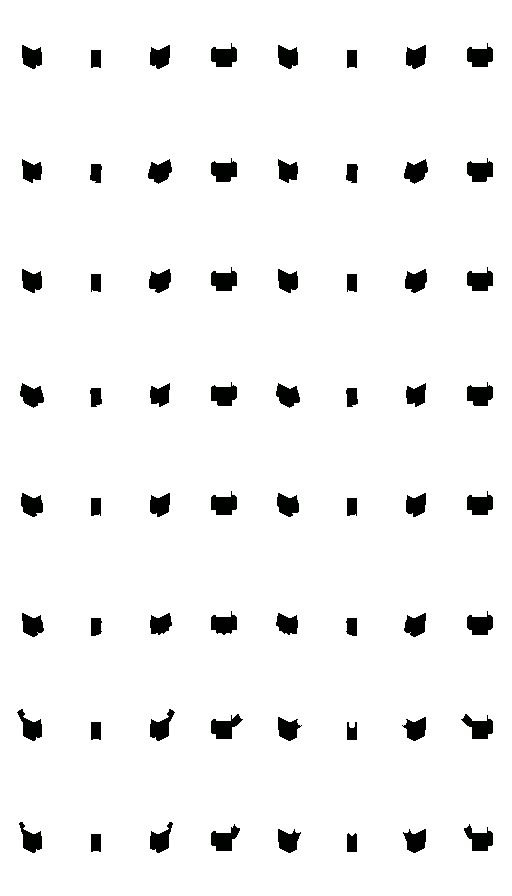
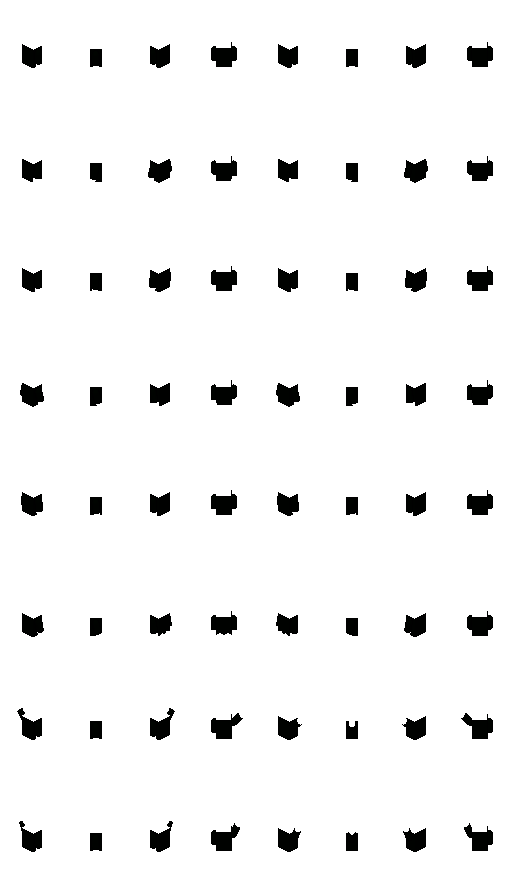
Deepen the figure's torso and legs (#127)
Torso depth 10 -> 12, thigh radius 3.9 -> 4.2, shin 3.4 -> 3.7. Dirs 1 and 5 are
where the torso turns edge-on to the camera, and the figure read thin there.

Measured on the standing silhouette, filled area per direction:

  dir      0    1    2    3    4    5    6    7
  before 1368  905 1379 1551 1379  905 1368 1539
  after  1412  981 1429 1632 1429  981 1412 1608
  delta  +3.2 +8.4 +3.6 +5.2 +3.6 +8.4 +3.2 +4.5  %

The thinnest angles gained the most and the already-broad ones barely moved,
which is the shape of result this was after: it fills out where it was weak
without going chunky head-on.

Bounding WIDTH does not move at all, in any direction. That is not the change
failing — the standing figure's widest points are the arms at x +/-9.5, so torso
depth cannot push past them, and in dimetric a depth increase projects
diagonally rather than sideways. Area is the metric that means "reads thin".

24 edits, because a garment is cut against the body as a holdout: a deeper torso
changes what gets removed from all of them. Shirt, trim shirt, blazer, overcoat,
trousers, skirt, belt, shoes and the pendant all moved outward to match. Every
edit asserted to match exactly once, which caught a thigh pattern that hit both
legs.

11 of 16 layer sheets changed. The 5 that did not are hd2, hr3, ha10, ea12 and
fa13 — all cut against the skull, which did not move. hr4 DID change: its long
back mass hangs low enough to meet the deeper torso.

All four gates pass. 389 tests green.

diff --git a/tools/artgen/rig.py b/tools/artgen/rig.py
@@ -313,20 +313,20 @@ ARM_LEN = 22
 FIGURE_PARTS = {
     "bd1": {
         "prims": [
-            {"t": "box",  "bone": "spine",  "slot": 0, "c0": (-7.5, -5.0, 0.0),
-             "c1": (7.5, 5.0, float(TORSO_LEN))},
+            {"t": "box",  "bone": "spine",  "slot": 0, "c0": (-7.5, -6.0, 0.0),
+             "c1": (7.5, 6.0, float(TORSO_LEN))},
             {"t": "limb", "bone": "arm_l",  "slot": 0, "len": float(ARM_LEN), "r": 3.2},
             {"t": "limb", "bone": "arm_r",  "slot": 0, "len": float(ARM_LEN), "r": 3.2},
-            {"t": "limb", "bone": "leg_l",  "slot": 0, "len": float(THIGH_LEN), "r": 3.9},
-            {"t": "limb", "bone": "leg_r",  "slot": 0, "len": float(THIGH_LEN), "r": 3.9},
-            {"t": "limb", "bone": "knee_l", "slot": 0, "len": float(SHIN_LEN), "r": 3.4,
+            {"t": "limb", "bone": "leg_l",  "slot": 0, "len": float(THIGH_LEN), "r": 4.2},
+            {"t": "limb", "bone": "leg_r",  "slot": 0, "len": float(THIGH_LEN), "r": 4.2},
+            {"t": "limb", "bone": "knee_l", "slot": 0, "len": float(SHIN_LEN), "r": 3.7,
              "caps": "top"},
-            {"t": "limb", "bone": "knee_r", "slot": 0, "len": float(SHIN_LEN), "r": 3.4,
+            {"t": "limb", "bone": "knee_r", "slot": 0, "len": float(SHIN_LEN), "r": 3.7,
              "caps": "top"},
-            {"t": "box",  "bone": "knee_l", "slot": 0, "c0": (-3.4, -2.6, -float(SHIN_LEN)),
-             "c1": (3.4, 6.0, -SHIN_LEN + 3.4)},
-            {"t": "box",  "bone": "knee_r", "slot": 0, "c0": (-3.4, -2.6, -float(SHIN_LEN)),
-             "c1": (3.4, 6.0, -SHIN_LEN + 3.4)},
+            {"t": "box",  "bone": "knee_l", "slot": 0, "c0": (-3.7, -2.9, -float(SHIN_LEN)),
+             "c1": (3.7, 6.3, -SHIN_LEN + 3.4)},
+            {"t": "box",  "bone": "knee_r", "slot": 0, "c0": (-3.7, -2.9, -float(SHIN_LEN)),
+             "c1": (3.7, 6.3, -SHIN_LEN + 3.4)},
         ],
     },
     # The head is its own layer, not part of bd — it is selectable, and it is what makes a figure
@@ -348,8 +348,8 @@ FIGURE_PARTS = {
     # has to be cut where the arm passes in front of it.
     "ch5": {
         "prims": [
-            {"t": "box",  "bone": "spine", "slot": 0, "c0": (-7.9, -5.4, 1.5),
-             "c1": (7.9, 5.4, 20.0)},
+            {"t": "box",  "bone": "spine", "slot": 0, "c0": (-7.9, -6.4, 1.5),
+             "c1": (7.9, 6.4, 20.0)},
             {"t": "limb", "bone": "arm_l", "slot": 0, "len": 8.0, "r": 3.7},
             {"t": "limb", "bone": "arm_r", "slot": 0, "len": 8.0, "r": 3.7},
         ],
@@ -358,10 +358,10 @@ FIGURE_PARTS = {
     # that proves N-colour parts — one mesh, two independently chosen ramps, no second render.
     "ch6": {
         "prims": [
-            {"t": "box",  "bone": "spine", "slot": 0, "c0": (-7.9, -5.4, 1.5),
-             "c1": (7.9, 5.4, 18.4)},
-            {"t": "box",  "bone": "spine", "slot": 1, "c0": (-7.6, -5.6, 18.4),
-             "c1": (7.6, 5.6, 20.6)},
+            {"t": "box",  "bone": "spine", "slot": 0, "c0": (-7.9, -6.4, 1.5),
+             "c1": (7.9, 6.4, 18.4)},
+            {"t": "box",  "bone": "spine", "slot": 1, "c0": (-7.6, -6.6, 18.4),
+             "c1": (7.6, 6.6, 20.6)},
             {"t": "limb", "bone": "arm_l", "slot": 0, "len": 13.0, "r": 3.7},
             {"t": "limb", "bone": "arm_r", "slot": 0, "len": 13.0, "r": 3.7},
             {"t": "ball", "bone": "arm_l", "slot": 1, "c": (0.0, 0.0, -13.5), "r": 3.9,
@@ -374,10 +374,10 @@ FIGURE_PARTS = {
     # player naming set 16 fails the ownership check like any other unowned set.
     "ch16": {
         "prims": [
-            {"t": "box",  "bone": "spine", "slot": 0, "c0": (-8.2, -5.7, 0.5),
-             "c1": (8.2, 5.7, 20.4)},
-            {"t": "box",  "bone": "spine", "slot": 1, "c0": (-2.2, -6.0, 2.0),
-             "c1": (2.2, 6.0, 20.4)},
+            {"t": "box",  "bone": "spine", "slot": 0, "c0": (-8.2, -6.7, 0.5),
+             "c1": (8.2, 6.7, 20.4)},
+            {"t": "box",  "bone": "spine", "slot": 1, "c0": (-2.2, -7.0, 2.0),
+             "c1": (2.2, 7.0, 20.4)},
             {"t": "limb", "bone": "arm_l", "slot": 0, "len": 20.0, "r": 3.8},
             {"t": "limb", "bone": "arm_r", "slot": 0, "len": 20.0, "r": 3.8},
             {"t": "ball", "bone": "arm_l", "slot": 1, "c": (0.0, 0.0, -20.5), "r": 4.0,
@@ -390,10 +390,10 @@ FIGURE_PARTS = {
     # is why the cone prim exists.
     "cc11": {
         "prims": [
-            {"t": "box",  "bone": "spine", "slot": 0, "c0": (-8.4, -5.9, 0.0),
-             "c1": (8.4, 5.9, 20.6)},
-            {"t": "box",  "bone": "spine", "slot": 1, "c0": (-2.0, -6.2, 1.0),
-             "c1": (2.0, 6.2, 20.6)},
+            {"t": "box",  "bone": "spine", "slot": 0, "c0": (-8.4, -6.9, 0.0),
+             "c1": (8.4, 6.9, 20.6)},
+            {"t": "box",  "bone": "spine", "slot": 1, "c0": (-2.0, -7.2, 1.0),
+             "c1": (2.0, 7.2, 20.6)},
             {"t": "cone", "bone": "hip",   "slot": 0, "len": 14.0, "r0": 8.6, "r1": 10.4},
             {"t": "limb", "bone": "arm_l", "slot": 0, "len": 20.0, "r": 4.0},
             {"t": "limb", "bone": "arm_r", "slot": 0, "len": 20.0, "r": 4.0},
@@ -401,28 +401,28 @@ FIGURE_PARTS = {
     },
     "lg7": {
         "prims": [
-            {"t": "limb", "bone": "leg_l",  "slot": 0, "len": float(THIGH_LEN), "r": 4.4},
-            {"t": "limb", "bone": "leg_r",  "slot": 0, "len": float(THIGH_LEN), "r": 4.4},
-            {"t": "limb", "bone": "knee_l", "slot": 0, "len": 15.0, "r": 4.0},
-            {"t": "limb", "bone": "knee_r", "slot": 0, "len": 15.0, "r": 4.0},
-            {"t": "box",  "bone": "hip",    "slot": 0, "c0": (-8.0, -5.4, -2.0),
-             "c1": (8.0, 5.4, 2.6)},
+            {"t": "limb", "bone": "leg_l",  "slot": 0, "len": float(THIGH_LEN), "r": 4.7},
+            {"t": "limb", "bone": "leg_r",  "slot": 0, "len": float(THIGH_LEN), "r": 4.7},
+            {"t": "limb", "bone": "knee_l", "slot": 0, "len": 15.0, "r": 4.3},
+            {"t": "limb", "bone": "knee_r", "slot": 0, "len": 15.0, "r": 4.3},
+            {"t": "box",  "bone": "hip",    "slot": 0, "c0": (-8.0, -6.4, -2.0),
+             "c1": (8.0, 6.4, 2.6)},
         ],
     },
     # Pleated Skirt (set 8). Same lg slot as trousers, so wearing one replaces the other.
     "lg8": {
         "prims": [
             {"t": "cone", "bone": "hip", "slot": 0, "len": 15.0, "r0": 8.2, "r1": 11.6},
-            {"t": "box",  "bone": "hip", "slot": 0, "c0": (-8.0, -5.4, -1.5),
-             "c1": (8.0, 5.4, 2.6)},
+            {"t": "box",  "bone": "hip", "slot": 0, "c0": (-8.0, -6.4, -1.5),
+             "c1": (8.0, 6.4, 2.6)},
         ],
     },
     "sh9": {
         "prims": [
-            {"t": "box", "bone": "knee_l", "slot": 0, "c0": (-3.9, -3.2, -float(SHIN_LEN)),
-             "c1": (3.9, 7.0, -SHIN_LEN + 4.2)},
-            {"t": "box", "bone": "knee_r", "slot": 0, "c0": (-3.9, -3.2, -float(SHIN_LEN)),
-             "c1": (3.9, 7.0, -SHIN_LEN + 4.2)},
+            {"t": "box", "bone": "knee_l", "slot": 0, "c0": (-4.2, -3.5, -float(SHIN_LEN)),
+             "c1": (4.2, 7.2, -SHIN_LEN + 4.2)},
+            {"t": "box", "bone": "knee_r", "slot": 0, "c0": (-4.2, -3.5, -float(SHIN_LEN)),
+             "c1": (4.2, 7.2, -SHIN_LEN + 4.2)},
         ],
     },
     # Hair sits proud of the skull and the head's own holdout cuts it back to a shell — the face
@@ -465,13 +465,13 @@ FIGURE_PARTS = {
     },
     "ca14": {
         "prims": [
-            {"t": "ball", "bone": "spine", "slot": 0, "c": (0.0, 5.8, 15.0), "r": 2.0},
+            {"t": "ball", "bone": "spine", "slot": 0, "c": (0.0, 6.8, 15.0), "r": 2.0},
         ],
     },
     "wa15": {
         "prims": [
-            {"t": "box", "bone": "spine", "slot": 0, "c0": (-8.1, -5.6, 0.6),
-             "c1": (8.1, 5.6, 3.4)},
+            {"t": "box", "bone": "spine", "slot": 0, "c0": (-8.1, -6.6, 0.6),
+             "c1": (8.1, 6.6, 3.4)},
         ],
     },
 }
